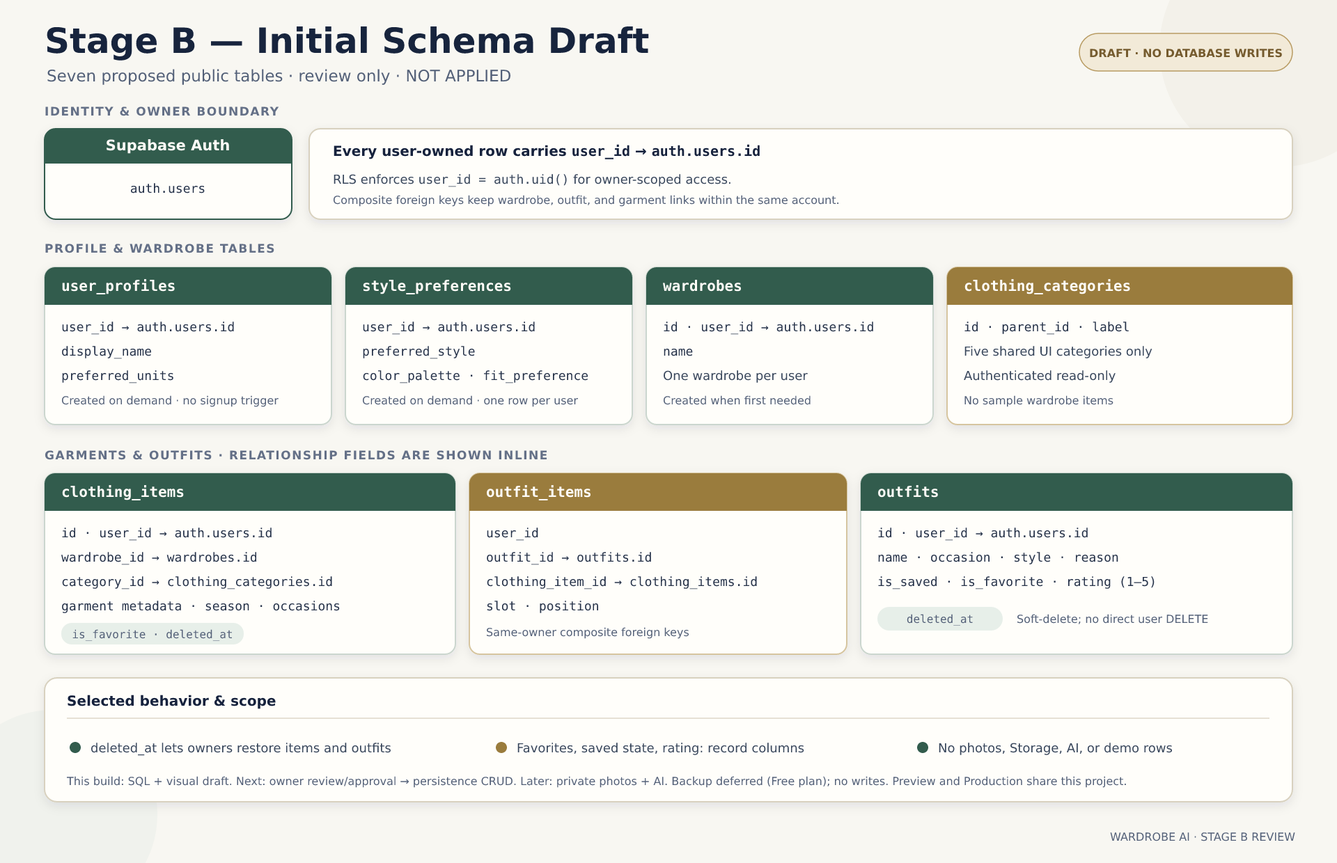
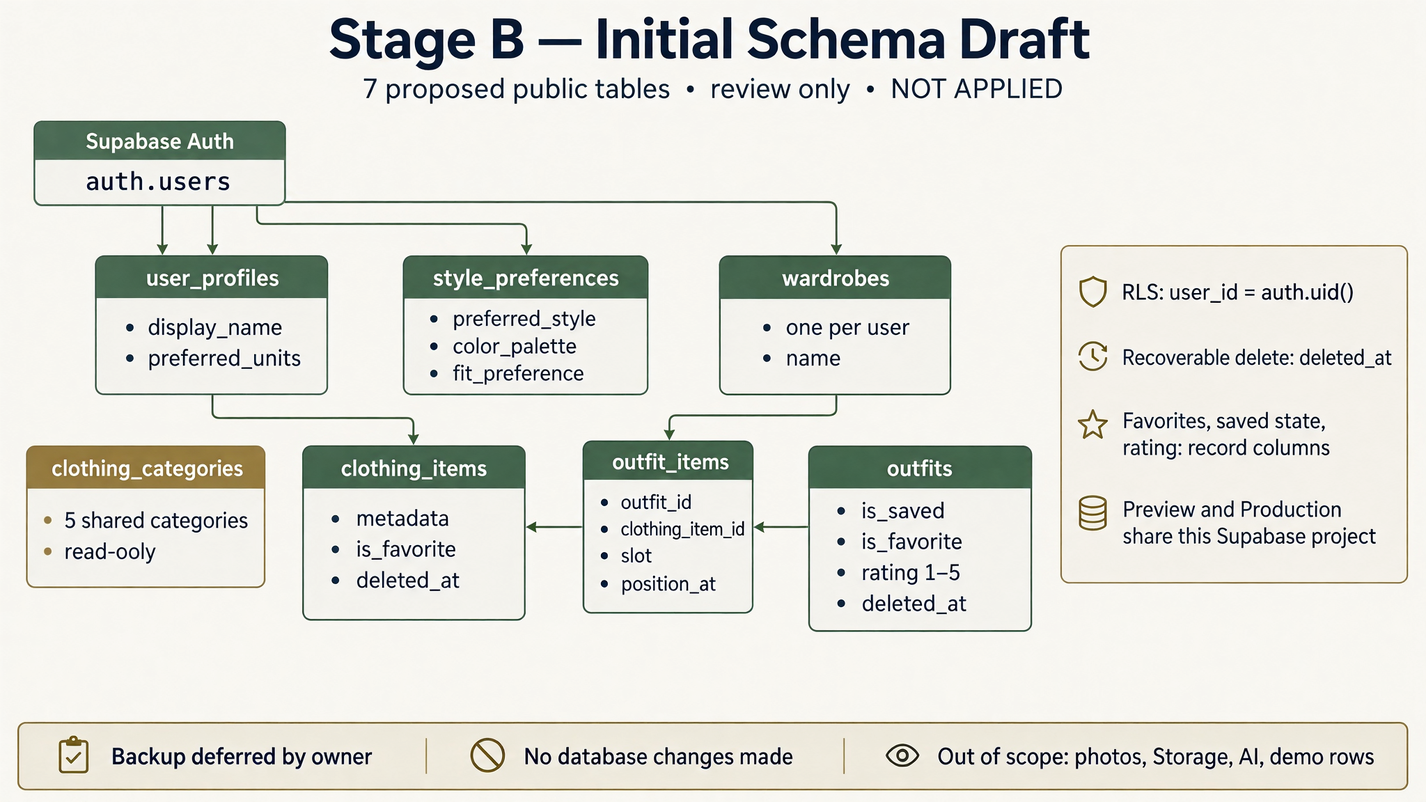
chore(db): stage approved Stage B migration

diff --git a/docs/DATABASE.md b/docs/DATABASE.md
@@ -1,55 +1,69 @@
 # Database
 
-**Status:** Stage B initial-schema draft prepared for owner review; it has **not** been applied. No application migration or database write has occurred.
-**Last updated:** 2026-10-23
+**Status:** Initial Stage B SQL is owner-approved and versioned as a migration, but has **not** been applied. No database write has occurred.
+**Last updated:** 2026-10-26
 
 ## Platform and ownership model
 
 Use Supabase Auth and PostgreSQL for the MVP. Supabase Auth owns credentials and authenticated identities; application rows reference the auth UUID. Row Level Security (RLS) is required for every user-owned table. Never rely on a client-supplied `user_id` as authorization.
 
-Store image bytes in private Supabase Storage, not database rows. Stage C will separately design object keys, media metadata, private access, replacement, and cleanup. No Storage changes are part of the current draft.
+Store image bytes in private Supabase Storage, not database rows. Stage C will separately design object keys, media metadata, private access, replacement, and cleanup. No Storage changes are part of the current migration.
 
 ## Inventory and safety boundary
 
-Stage A created no application tables, migrations, or Storage objects. Read-only inventory performed on 2026-10-20 found no app-owned tables or columns in `public`; the broader non-system relation listing contained only Supabase-managed `auth`, `extensions`, `realtime`, `storage`, and `vault` relations. No row data or Vault secret contents were queried.
+Read-only inventory performed on 2026-10-20 found no app-owned tables or columns in `public`; the broader non-system relation listing contained only Supabase-managed `auth`, `extensions`, `realtime`, `storage`, and `vault` relations. No row data or Vault secret contents were queried.
 
-The existing Supabase project is shared by Vercel Preview and Production. The owner selected it conditionally for Stage B. The owner reports that the Supabase Free plan does not provide the desired backup option and has deferred that step for now; **no restorable backup/export has been created or verified**. There have been no DDL or data writes. Backup deferral is not approval to apply SQL.
+The existing Supabase project is shared by Vercel Preview and Production. The owner approved the exact SQL on 2026-10-26 and waived the backup step because the Supabase Free plan does not provide the desired backup option. **No restorable backup/export has been created or verified, and no DDL or data writes have occurred.** The agent has no Supabase database access, so the migration below is prepared but not executed.
 
-## Initial schema draft
+## Approved initial schema
 
-The exact additive draft is [`STAGE_B_INITIAL_SCHEMA_DRAFT.sql`](STAGE_B_INITIAL_SCHEMA_DRAFT.sql). It is a documentation artifact, not an executable migration, and has not been run against Supabase.
+- Versioned migration: [`supabase/migrations/20261026000000_stage_b_initial_schema.sql`](../supabase/migrations/20261026000000_stage_b_initial_schema.sql)
+- Owner-approved SQL copy: [`STAGE_B_INITIAL_SCHEMA_DRAFT.sql`](STAGE_B_INITIAL_SCHEMA_DRAFT.sql)
+- Current handoff: [approved migration and next steps](assets/stage-b-migration-handoff.png)
+- Field-by-field schema diagram from the earlier review: [schema overview](assets/stage-b-schema-overview.png)
 
-![Stage B initial schema draft overview](assets/stage-b-schema-overview.png)
+The migration creates seven tables: `user_profiles`, `style_preferences`, `wardrobes`, `clothing_categories`, `clothing_items`, `outfits`, and `outfit_items`. It inserts only five static clothing categories; it does not seed demo wardrobe, profile, or outfit records. New accounts remain empty until the user adds data.
 
-The draft contains only these initial tables:
-
-- `user_profiles` and `style_preferences`: one owner-scoped row per user, created on demand; no Auth signup trigger.
-- `wardrobes`: one owner-scoped wardrobe container per user, created when first needed.
-- `clothing_categories`: shared, static category names used by the UI; authenticated read-only access.
-- `clothing_items`: owner/wardrobe/category references and editable garment metadata.
-- `outfits`: owner-scoped outfit metadata.
-- `outfit_items`: outfit-to-garment links with same-owner composite foreign keys.
-
-The draft seeds only the five static clothing categories (tops, bottoms, shoes, outerwear, accessories). It does not seed demo wardrobe, profile, or outfit records. New accounts remain empty until the user adds data.
-
-### Owner-selected initial behavior
+### Owner-selected behavior
 
 - Clothing items and outfits use recoverable deletion via `deleted_at`. Normal lists must exclude deleted rows; restoring sets `deleted_at` back to `NULL`. Soft-deleted items retain their outfit links so a restored item can reappear in those outfits.
-- Favorite/save/rating state is stored on records: `clothing_items.is_favorite`, and `outfits.is_favorite`, `outfits.is_saved`, and nullable `outfits.rating` (1–5). There are no separate favorite/rating tables in this draft.
+- Favorite/save/rating state is stored on records: `clothing_items.is_favorite`, and `outfits.is_favorite`, `outfits.is_saved`, and nullable `outfits.rating` (1–5). There are no separate favorite or rating tables.
+- There is one wardrobe per user in this initial model. Profiles, preferences, and wardrobe rows are created on demand; there is no Auth signup trigger.
 - Account deletion remains a hard cascade from the Supabase Auth user to the user's database rows. Storage cleanup belongs to the later, separately approved Stage C.
 
-### Security and integrity in the draft
+### Security and integrity
 
 - RLS is enabled for every owner table. Owner policies compare the row's `user_id` with `auth.uid()` for reads and writes.
-- The draft revokes `PUBLIC`, `anon`, and `authenticated` table grants, then grants owner-scoped privileges as needed to `authenticated`; the shared category catalogue is authenticated read-only. It does not alter table-owner/service-role privileges. Authenticated users have no direct hard-delete privilege on clothing items or outfits; those records are retired/restored through `deleted_at`.
+- The migration revokes `PUBLIC`, `anon`, and `authenticated` table grants, then grants owner-scoped privileges as needed to `authenticated`; the shared category catalogue is authenticated read-only. It does not alter table-owner/service-role privileges. Authenticated users have no direct hard-delete privilege on clothing items or outfits; those records are retired/restored through `deleted_at`.
 - Composite foreign keys prevent wardrobe, outfit, and garment links from crossing account ownership.
-- No client-supplied owner identity is trusted. Service-role usage, Storage access, and AI/provider flows are outside this draft.
+- `updated_at` has a default on insert but no trigger; application updates must set it.
 
-## Backup, review, and rollout gates
+## Apply and rollback status
 
-1. **Backup status:** deferred by the owner because of the Free plan. No restorable backup/restore path has been verified. If the owner later obtains one, record its date and restore procedure; do not send credentials or dumps in chat.
-2. **Exact SQL review:** the owner reviews [`STAGE_B_INITIAL_SCHEMA_DRAFT.sql`](STAGE_B_INITIAL_SCHEMA_DRAFT.sql) and explicitly approves that exact text or requests revisions. No approval has been given yet.
-3. **Apply:** backup deferral alone is not permission to execute. A database write requires a separate explicit apply instruction after reconfirming that no restorable backup is available and the exact SQL is approved.
-4. Before broader rollout, test anonymous access and at least two synthetic authenticated users, cross-user relationship rejection, create/update/soft-delete/restore flows, and account cleanup behavior.
+The owner has instructed us to proceed, but this workspace has no database/dashboard access. The migration is committed as code only; neither Vercel nor a Git build automatically runs it. The owner will need to apply it through the chosen Supabase migration workflow or SQL Editor, then verify the seven tables and RLS policies before application persistence is connected.
 
-Stage C private photos/Storage, real AI, payments, and Production setting changes are not included.
+After applying, these read-only checks can confirm the tables and policies:
+
+```sql
+select table_name
+from information_schema.tables
+where table_schema = 'public'
+  and table_name in (
+    'user_profiles', 'style_preferences', 'wardrobes',
+    'clothing_categories', 'clothing_items', 'outfits', 'outfit_items'
+  )
+order by table_name;
+
+select tablename, policyname, roles, cmd
+from pg_policies
+where schemaname = 'public'
+  and tablename in (
+    'user_profiles', 'style_preferences', 'wardrobes',
+    'clothing_categories', 'clothing_items', 'outfits', 'outfit_items'
+  )
+order by tablename, policyname;
+```
+
+**Important:** a Vercel build number identifies an application deployment; rolling back that build does **not** reverse SQL schema changes or database data. A database rollback is a separate database operation. Dropping these tables after users have added records would permanently delete those records, so no automatic destructive rollback is included. Use a reviewed database rollback/forward-fix plan and retain the no-backup risk in mind.
+
+After application, test anonymous access and at least two synthetic authenticated users, cross-user relationship rejection, create/update/soft-delete/restore flows, and account cleanup. Stage C private photos/Storage, real AI, payments, and Production setting changes remain out of scope.

diff --git a/docs/PROJECT_STATUS.md b/docs/PROJECT_STATUS.md
@@ -1,11 +1,11 @@
 # Wardrobe AI — Project Status
 
-**As of:** 2026-10-23 · **Current focus:** Phase 2, Stage B — persistence schema review<br>
+**As of:** 2026-10-26 · **Current focus:** Phase 2, Stage B — migration handoff<br>
 **Branch/PR:** `arena/b546cfc0-wardrobe-ai` · PR #1 is open and draft · [PR and current Preview deployment](https://github.com/bishalkarma/Wardrobe-AI/pull/1)
 
 **Product goal:** Help someone use the clothes they actually own—from account and wardrobe setup through outfit recommendations and, later, try-on.
 
-**Visual overview:** [Stage B initial schema draft](assets/stage-b-schema-overview.png) · [editable SVG source](assets/stage-b-schema-overview.svg)
+**Visuals:** [Current migration handoff and next steps](assets/stage-b-migration-handoff.png) · [Earlier field-by-field schema overview](assets/stage-b-schema-overview.png)
 
 ## Delivery hierarchy
 
@@ -14,25 +14,25 @@
 | **Phase 0 — Architecture** | Complete | Product boundaries, architecture, security principles, and future AI evaluation plan documented. |
 | **Phase 1 — Mock prototype** | Complete | Responsive prototype preserved under `/demo/**`; interactions and sample records are temporary, illustrative, and isolated from accounts. |
 | **Phase 2A — Authentication** | Implemented; Preview-tested | Email confirmation, sign-in/out, session refresh, empty authenticated account, and demo separation/navigation were confirmed by the owner. Password recovery currently returns a Supabase rate-limit response and is deferred at the owner's request. |
-| **Phase 2B — Persistence** | **Schema draft ready for review; writes gated** | Inventory found no app-owned tables. The owner chose recoverable deletion and record columns for favorite/save/rating state. Exact SQL draft is in `docs/STAGE_B_INITIAL_SCHEMA_DRAFT.sql`; it is not applied. The owner deferred the backup step because of the Supabase Free plan; no restorable backup is verified. |
+| **Phase 2B — Persistence** | **Schema approved; migration prepared but not applied** | Owner approved the exact initial SQL and asked to proceed. The migration is versioned under `supabase/migrations/`. The backup step is waived/deferred by the owner; no restorable backup is verified. This workspace cannot access Supabase to execute it. |
 | **Phase 2C — Private photos** | Not started | Later: file validation, private Storage, access policies, replacement, and retryable deletion. No uploads or Storage changes now. |
 | **Phase 3 — Real AI and try-on** | Not started | Later: wardrobe-grounded recommendations, provider evaluation, durable jobs, usage controls, and the Garment Fidelity Test. The current stylist/try-on screens remain demo-only. |
 | **Later / deferred** | Not started | Payments, commerce, social, weather, advanced analytics, and native apps. |
 
 ## Stage 2B work breakdown
 
-1. **B0 — Environment and schema discovery:** Complete. The shared project was selected conditionally; read-only inventory found no app-owned tables. The owner deferred a restorable backup/export due to the Free plan; none has been created or verified.
-2. **B1 — Domain model and draft:** Initial owner-scoped model and additive SQL draft prepared at `docs/STAGE_B_INITIAL_SCHEMA_DRAFT.sql`, with the visual summary linked above. The owner has not approved the exact SQL.
-3. **B2 — Migrations and RLS:** Not authorized to apply. Any future apply requires explicit approval of the exact SQL, a separate apply instruction, and confirmation that the owner understands no restorable backup is available. Do not import or seed `/demo` records.
-4. **B3 — Application persistence:** Later connect authenticated profile, wardrobe, and outfit interactions to owner-checked persistence; keep accounts empty until users add their own data.
-5. **B4 — Verification and rollout:** Test anonymous access and at least two synthetic users, cross-user relationship rejection, CRUD/deletion/restore, and the deployed Preview before any broader rollout.
+1. **B0 — Environment and schema discovery:** Complete. Read-only inventory found no app-owned tables. Preview and Production share the selected Supabase project.
+2. **B1 — Domain model and review:** Complete. The owner approved recoverable item/outfit deletion and record columns for favorite/save/rating; exact SQL approved on 2026-10-26.
+3. **B2 — Migration and RLS:** Migration is versioned at `supabase/migrations/20261026000000_stage_b_initial_schema.sql`, but has not been applied. The owner waived/deferred the backup step. The agent has no Supabase database access; the owner must apply and verify the migration through Supabase before app persistence is connected.
+4. **B3 — Application persistence:** Next after migration verification: implement authenticated profile, wardrobe, item, and outfit reads/writes with owner checks; keep `/demo/**` data isolated.
+5. **B4 — Verification and rollout:** Test anonymous access, at least two synthetic users, cross-user relationship rejection, CRUD/soft-delete/restore, and account cleanup. RLS does not isolate Preview from Production.
 
 ## Safety gates and known constraints
 
 - Vercel Preview and Production share the **same Supabase project**. Preview Auth users are shared with Production; Auth rate limits are shared too.
-- The owner selected the existing shared Supabase project as the **conditional** Stage B target after review. This is not approval to apply a migration.
-- Read-only inventory on 2026-10-20 found no app-owned tables/columns in `public`; the broader listing showed only Supabase-managed schemas (`auth`, `extensions`, `realtime`, `storage`, `vault`). No row data or Vault secrets were queried.
-- **No backup has been made or verified. No DDL or data writes have occurred.** The owner deferred the backup step due to the Free plan. Treat this as a known risk; do not apply SQL unless the owner explicitly approves the exact draft and separately instructs an apply after reconfirming the risk.
+- The owner explicitly waived/deferred the backup step because of the Supabase Free plan. **No restorable backup has been verified.** No database write has occurred.
+- The owner approved the exact SQL and asked to proceed, but this workspace has no Supabase dashboard/database access. The migration is staged as code only; it has not run.
+- **Vercel build numbers roll back application deployments only. They do not roll back database schema or data.** Database rollback is separate and may be destructive; dropping tables after users add records would lose those records.
 - Stage 2B excludes private image uploads/Storage, AI calls, payments, and Production setting changes.
 - For each future build update, include a generated visual summarizing what changed and the next ideas, as requested by the owner. Keep those visuals under `docs/assets/`; do not add build identifiers to the app UI.
 
@@ -41,4 +41,4 @@
 - `app/(demo)/demo/**` — Phase 1 screens and mock provider boundary.
 - `app/(authenticated)/**` — protected routes and empty account placeholders.
 - `app/auth/**`, `proxy.ts`, `lib/auth/**`, `lib/supabase/**` — Stage 2A auth, callbacks, session refresh, and redirect safety.
-- `docs/ROADMAP.md`, `docs/DATABASE.md`, `docs/SECURITY.md` — detailed roadmap, proposed data model/safety gates, and safeguards.
+- `docs/ROADMAP.md`, `docs/DATABASE.md`, `docs/SECURITY.md` — detailed roadmap, approved schema and safety boundaries.

diff --git a/docs/ROADMAP.md b/docs/ROADMAP.md
@@ -1,6 +1,6 @@
 # Roadmap
 
-**Last updated:** 2026-10-23
+**Last updated:** 2026-10-26
 
 The approved North Star is a user completing the full real-wardrobe journey: account → full-body photo → several real garments → AI-suggested metadata review → wardrobe → owned-item outfit recommendation → try-on → save/rate.
 
@@ -13,12 +13,12 @@ The approved North Star is a user completing the full real-wardrobe journey: acc
 **Complete and preserved.** The complete illustrative experience remains available under `/demo/**`: onboarding guidance, wardrobe CRUD interactions, simulated garment-photo analysis, stylist recommendations, try-on states, saved outfits, favorites/ratings, and mock preferences. The mock state is in-memory and is not user-owned account data.
 
 ### Phase 2, Stage A — Authentication and route separation
-**Implementation complete; core Preview flows confirmed by the owner.** `/welcome` is public, `/demo/**` is isolated mock content, and actual application routes require a verified Supabase Auth session. Email confirmation, sign-in/out, session refresh, empty account state, demo navigation/isolation, callback handling, and safe internal redirects are implemented. Password recovery currently returns a Supabase rate-limit response and is deferred at the owner's request. No migrations, app-data persistence, image uploads, Storage buckets, or AI provider are included.
+**Implementation complete; core Preview flows confirmed by the owner.** `/welcome` is public, `/demo/**` is isolated mock content, and actual application routes require a verified Supabase Auth session. Email confirmation, sign-in/out, session refresh, empty account state, demo navigation/isolation, callback handling, and safe internal redirects are implemented. Password recovery currently returns a Supabase rate-limit response and is deferred at the owner's request. No app-data persistence, image uploads, Storage buckets, or AI provider are included.
 
 Vercel Preview and Production use the same Supabase project. Preview sign-ups create users in the shared Auth system; this is not environment isolation. Use dedicated synthetic accounts. The code does not alter Supabase or Vercel dashboard settings.
 
 ### Phase 2, Stage B — Persistence
-**Discovery complete; initial schema draft prepared for review, not applied.** Read-only inventory found no app-owned tables. The owner selected recoverable deletion for clothing items/outfits and record columns for favorite/save/rating state. The additive SQL draft and visual overview are in `docs/`; neither is applied. The owner deferred the backup step because the Supabase Free plan does not provide the desired backup option; no restorable backup/export has been verified. This deferral does not authorize a migration: exact SQL approval and a separate apply instruction are still required, with the no-backup risk reconfirmed before any write. Do not seed mock demo records into accounts. RLS does not isolate Preview from Production.
+**Exact schema approved; migration prepared but not applied.** Read-only inventory found no app-owned tables. The owner approved recoverable deletion for clothing items/outfits and record columns for favorite/save/rating, then approved the exact SQL and asked to proceed on 2026-10-26. The migration is versioned at `supabase/migrations/20261026000000_stage_b_initial_schema.sql`. The backup step is waived/deferred by the owner due to the Supabase Free plan; no restorable backup is verified. This workspace has no Supabase database access, so no DDL has been executed. Vercel builds do not execute SQL. Do not seed mock demo records into accounts. RLS does not isolate Preview from Production.
 
 ### Phase 2, Stage C — Private photos
 **Not started; requires separate approval.** Add private image selection, validation, upload/retrieval, replacement, and retryable cleanup only after the environment and Storage policy are approved.
@@ -31,7 +31,8 @@ Provider-neutral job readiness and any real provider implementation/evaluation r
 - Automated checks cover TypeScript, production build, redirect/route helpers, and the server-side identity guard.
 - Owner-confirmed Preview checks: sign-up + email confirmation, sign-in/out, session refresh, empty account, and demo separation/navigation.
 - Password recovery remains blocked by a Supabase rate-limit response; deferred at the owner's request.
-- Before any Stage B migration or data write, reconfirm that the owner has deferred the backup and understands no restorable backup is available; obtain explicit approval of the exact SQL and a separate apply instruction. Then test anonymous access and at least two synthetic users, cross-user relationship rejection, create/update/soft-delete/restore, and account cleanup. Do not treat RLS or a successful Preview deployment as Preview/Production data isolation.
+- The owner must apply the approved migration through Supabase and verify the seven tables/RLS before app persistence is connected. Then test anonymous access and at least two synthetic users, cross-user relationship rejection, create/update/soft-delete/restore, and account cleanup.
+- A Vercel build rollback only affects application code. Database rollback is a separate operation and can destroy data if tables are dropped after records exist. Do not treat a Preview build as a database rollback or as Preview/Production data isolation.
 - Track the full hierarchy and current gates in [`docs/PROJECT_STATUS.md`](PROJECT_STATUS.md).
 
 ## Explicitly deferred

diff --git a/docs/DECISIONS.md b/docs/DECISIONS.md
@@ -1,6 +1,6 @@
 # Architecture Decisions
 
-**Last updated:** 2026-10-23
+**Last updated:** 2026-10-26
 
 This log records decisions approved for Wardrobe AI and choices that remain open. New architectural choices should be added here before they are treated as production commitments.
 
@@ -53,20 +53,27 @@ Use the existing Supabase project; do not create another project. Vercel Preview
 
 ## ADR-010 — Begin Stage B with database discovery and safety review
 
-**Status:** Owner approved Stage B discovery/design on 2026-10-20 and selected the existing shared project conditionally; database writes remain gated.
-Start by inventorying the existing Supabase schema and agreeing the backup/rollback plan. Preview and Production share the same project, so do not assume deployment isolation from RLS alone. No migration should be applied until the live schema is verified and the owner confirms the exact change. Do not create another Supabase project or alter dashboard settings without separate approval.
+**Status:** Owner approved Stage B discovery/design on 2026-10-20, selected the existing shared project conditionally, and approved the exact initial schema on 2026-10-26. The migration is staged but not applied because this workspace has no Supabase database access.
+
+The read-only inventory found no app-owned tables. Preview and Production share the same project, so do not assume deployment isolation from RLS alone. The owner waived/deferred backup due to the Free plan. Do not create another Supabase project or alter dashboard settings without separate approval.
 
 ## ADR-011 — Initial persistence deletion and state fields
 
-**Status:** Owner-selected for the initial schema draft on 2026-10-23; exact SQL approval and database writes remain gated.
+**Status:** Exact SQL approved and build requested by the owner on 2026-10-26; migration is prepared but not applied.
 
 Use recoverable deletion for clothing items and outfits, represented by `deleted_at`; normal application lists must exclude deleted rows, while an owner can restore a row. Store favorite/save/rating state as columns on the records: `clothing_items.is_favorite`, and `outfits.is_favorite`, `outfits.is_saved`, and `outfits.rating`. Do not create separate favorite or rating tables in the initial draft. The draft is `docs/STAGE_B_INITIAL_SCHEMA_DRAFT.sql` and is not applied. Exact SQL approval and a separate apply instruction are still required.
 
 ## ADR-012 — Defer the backup step for Stage B
 
-**Status:** Owner requested deferral on 2026-10-23 because the Supabase Free plan does not provide the desired backup option.
+**Status:** Owner waived/deferred the backup requirement on 2026-10-26 because the Supabase Free plan does not provide the desired backup option.
 
-No restorable backup/export has been created or verified. This is a known risk and a deferred safeguard, not approval to run the draft. Before any future apply, restate that no backup is available, obtain explicit approval of the exact SQL, and receive a separate instruction to apply it.
+No restorable backup/export has been created or verified. The owner approved the SQL and asked to proceed; the migration is staged in the repository but has not been executed because the agent has no database access.
+
+## ADR-013 — Application builds do not roll back database changes
+
+**Status:** Clarification recorded on 2026-10-26.
+
+A Vercel build number identifies an application deployment. Rolling back that build does not undo SQL migrations or restore database data. Database rollback is a separate operation, and dropping tables after user data has been written can permanently destroy that data.
 
 ## Open decisions before production integration
 

diff --git a/README.md b/README.md
@@ -6,7 +6,7 @@ A mobile-first, PWA-ready wardrobe experience designed around the clothes a pers
 
 ## Current status
 
-**Phase 1 demo preserved; Phase 2 Stage A authentication implemented and core Preview flows confirmed. Stage B persistence discovery/design is active; an initial SQL draft is pending owner review and no migration has been applied. The backup step is deferred by the owner due to the Supabase Free plan; no restorable backup/export has been verified.** The mock prototype is isolated under `/demo/**` and uses local in-memory sample data. `/welcome` is public. The real application routes require a verified Supabase Auth session, but authenticated accounts are intentionally empty: wardrobe, preferences, outfits, photo uploads, Storage, and AI are not implemented. Password recovery currently returns a Supabase rate-limit response and is deferred at the owner's request.
+**Phase 1 demo preserved; Phase 2 Stage A authentication implemented and core Preview flows confirmed. Stage B schema is owner-approved and its migration file is prepared, but it has not been applied. The backup step is deferred by the owner due to the Supabase Free plan; no restorable backup/export has been verified. A Vercel build rollback does not undo database changes.** The mock prototype is isolated under `/demo/**` and uses local in-memory sample data. `/welcome` is public. The real application routes require a verified Supabase Auth session, but authenticated accounts are intentionally empty: wardrobe, preferences, outfits, photo uploads, Storage, and AI are not implemented. Password recovery currently returns a Supabase rate-limit response and is deferred at the owner's request.
 
 Vercel Preview and Production currently use the **same Supabase project**. Preview sign-up and confirmation create users in the shared Supabase Auth system; Preview is not isolated from Production. Use dedicated test accounts and do not use Production user credentials for testing.
 
@@ -65,7 +65,8 @@ docs/                  Architecture, UX, database, AI, security, decisions, road
 ## Documentation
 
 - [One-page project status and hierarchy](docs/PROJECT_STATUS.md)
-- [Stage B schema visual overview](docs/assets/stage-b-schema-overview.png)
+- [Stage B schema detail diagram](docs/assets/stage-b-schema-overview.png)
+- [Current Stage B migration handoff](docs/assets/stage-b-migration-handoff.png)
 - [Architecture](docs/ARCHITECTURE.md)
 - [UI/UX](docs/UI_UX.md)
 - [Database](docs/DATABASE.md)

diff --git a/docs/ARCHITECTURE.md b/docs/ARCHITECTURE.md
@@ -32,7 +32,7 @@ Sign-up and recovery requests pass an explicit callback URL built from the curre
 
 The owner confirmed that Vercel Preview and Production use the **same Supabase project**. Preview is therefore not isolated from Production: preview sign-ups and confirmations create accounts in the shared Auth system, and Auth configuration is project-wide. Stage A added no application tables or Storage objects, but Auth user records and email activity are shared. Test Preview with dedicated synthetic accounts; do not describe it as a separate database or Auth environment.
 
-Stage B discovery/design is approved, but no application persistence or migrations are implemented/applied. Read-only inventory found no app-owned tables. The owner has deferred the backup step because of the Supabase Free plan; no restorable backup is verified. Before any write, obtain explicit approval of the exact SQL and a separate apply instruction, and reconfirm the no-backup risk. RLS does not separate Preview from Production.
+The initial Stage B schema is owner-approved and the migration is staged in `supabase/migrations/`, but no application persistence is implemented and the migration has not been applied. Read-only inventory found no app-owned tables. The owner waived/deferred the backup step because of the Supabase Free plan; no restorable backup is verified. This workspace has no Supabase database access. Vercel build rollback affects app code only, not database schema or data. RLS does not separate Preview from Production.
 
 ## Phase 1 demo implementation boundary
 
